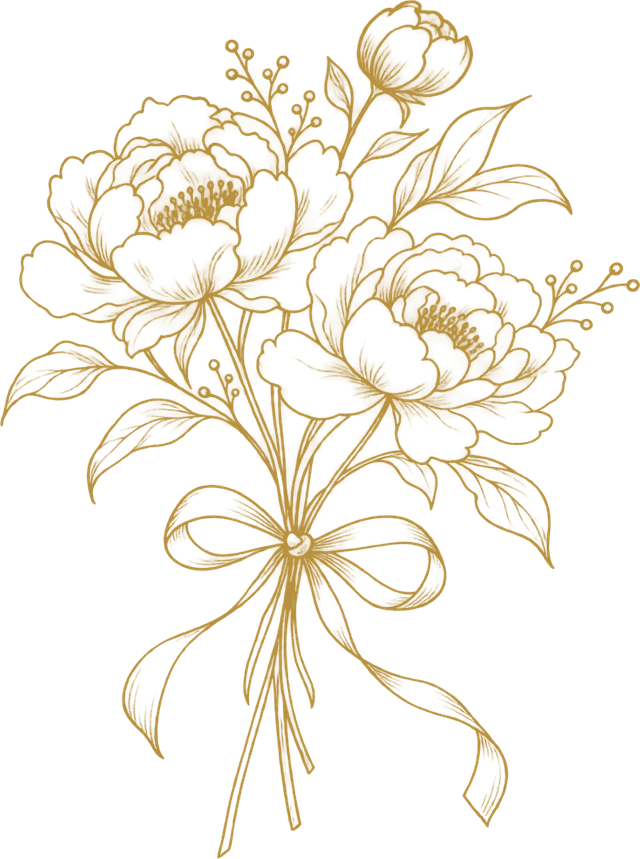
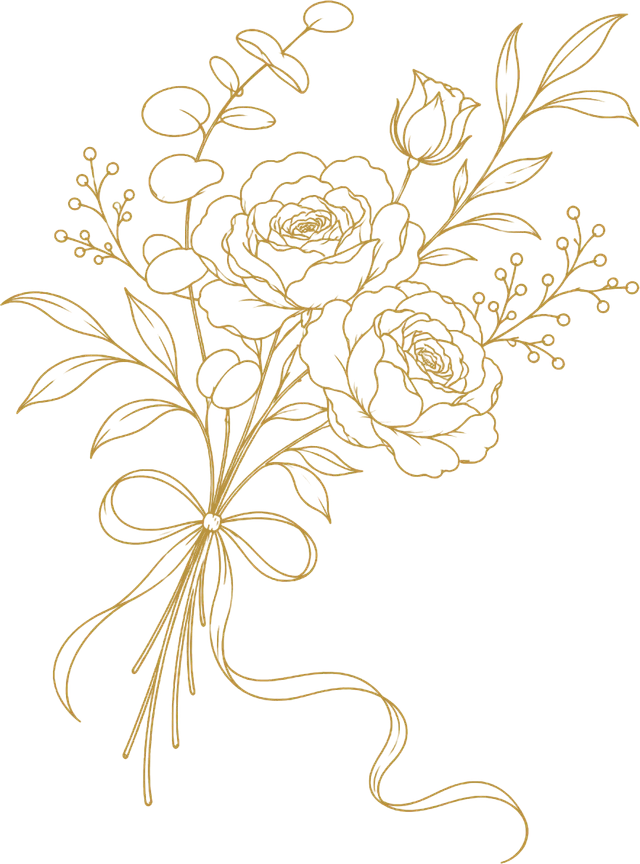
Landing: new gold rose bouquet and envelope bouquet, laurel wreath monogram on the contact card, sealed envelope in Regional Reach

diff --git a/src/app/page.tsx b/src/app/page.tsx
@@ -282,7 +282,7 @@ export default function Home() {
           </B>
           <B x={896} y={640} w={380} fs={20.5} as="p" cls="font-display text-[#3b3632]">Worldwide service</B>
           <B x={894} y={676} w={400} fs={20.5} as="p" cls="font-display text-[#8a6d33]">Taiwan · Thailand · Myanmar</B>
-          <B x={1158} y={575} w={150} cls="hide-m"><img src="/landing/bouq-line.webp" alt="" className="lp-img" /></B>
+          <B x={1160} y={578} w={140} cls="hide-m"><img src="/landing/envelope-line.webp" alt="" className="lp-img" /></B>
         </div>
       </section>
 
@@ -293,7 +293,11 @@ export default function Home() {
         <B x={930} y={95} w={150} v="right" cls="hide-m"><img src="/landing/dried.webp" alt="" className="lp-img" style={{ transform: "scaleX(-1) rotate(-6deg)", opacity: .85 }} /></B>
         <B x={828} y={185} w={285} h={430} v="zoom" cls="hide-m">
           <div className="flex h-full w-full items-center justify-center" style={{ background: "linear-gradient(#f9f3ea,#f3e9dc)", boxShadow: "0 30px 50px -28px rgba(120,90,50,.45)", transform: "rotate(1.5deg)" }}>
-            <img src="/landing/bouq-gold.webp" alt="" style={{ width: "76%" }} />
+            {/* A gold laurel wreath with the name set inside it, like a monogram. */}
+            <div className="relative" style={{ width: "78%" }}>
+              <img src="/landing/wreath-line.webp" alt="" className="lp-img" />
+              <span className="script absolute inset-x-0 text-center text-[#8a7f78]" style={{ top: "34%", fontSize: "calc(34 * var(--u))" }}>The Day</span>
+            </div>
           </div>
         </B>
         <div className="in pt-20">
